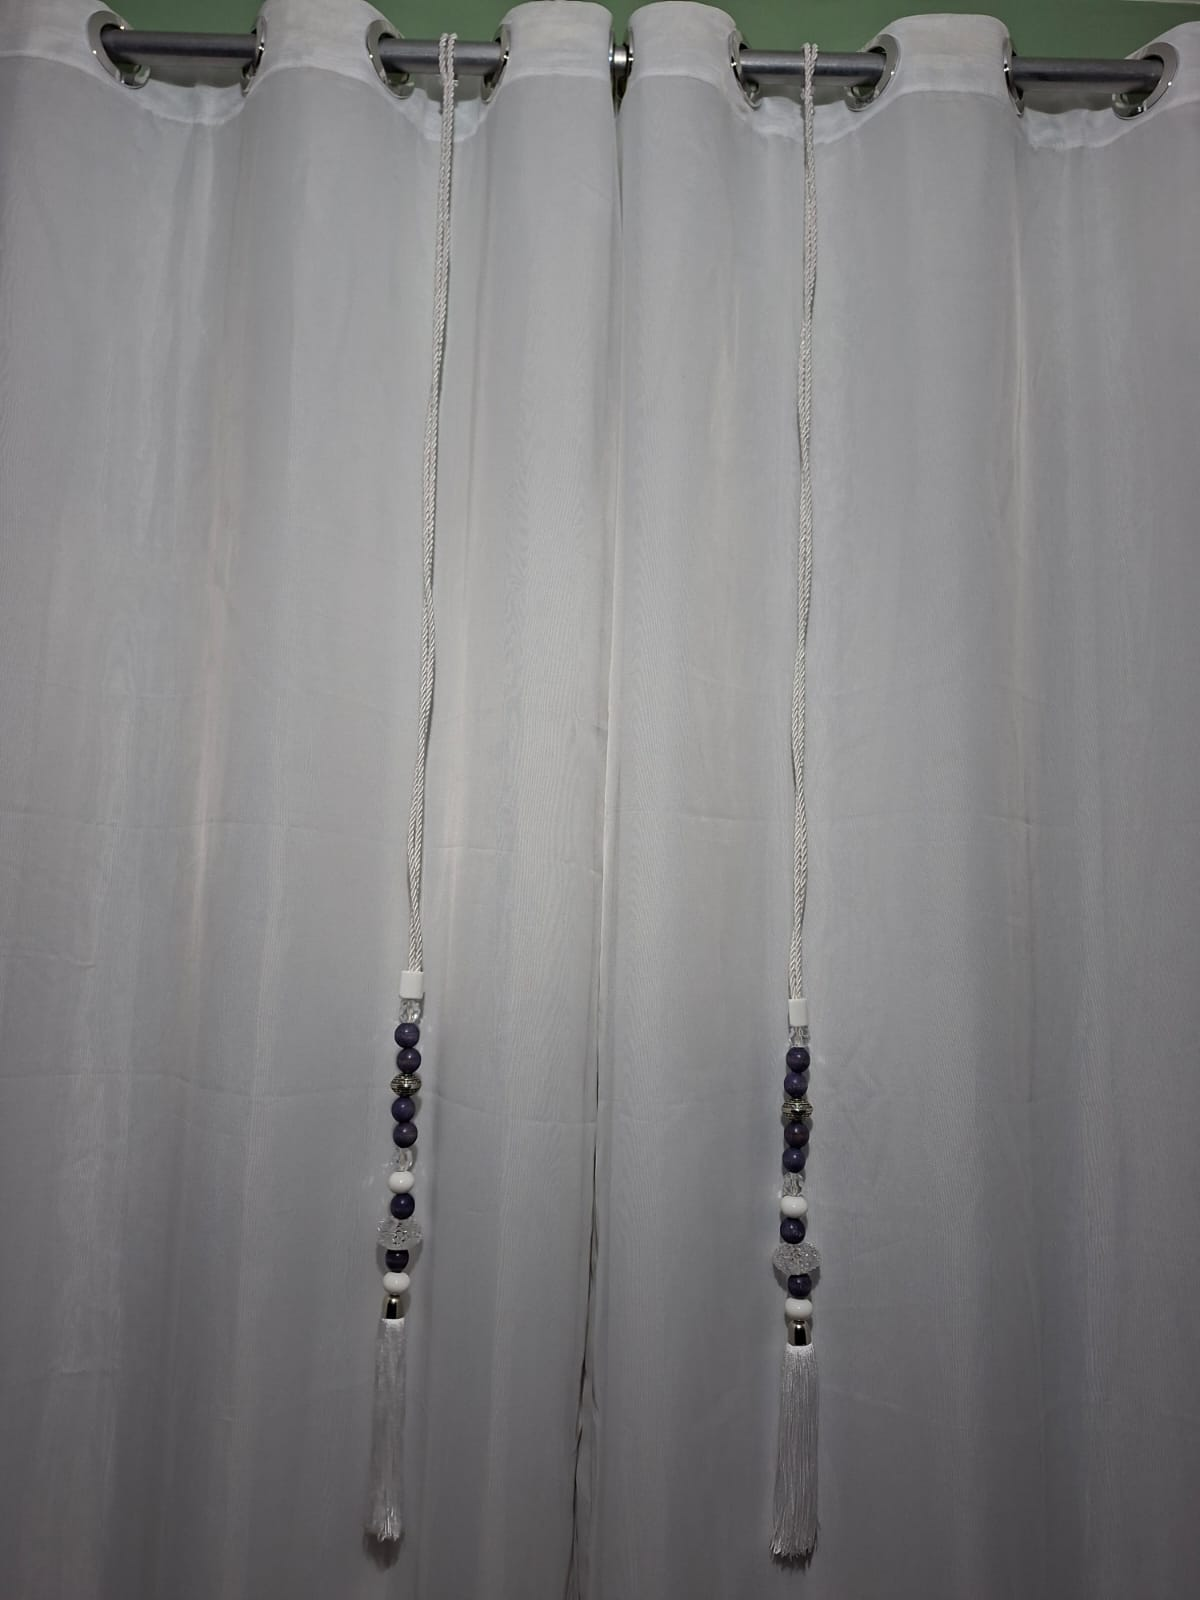
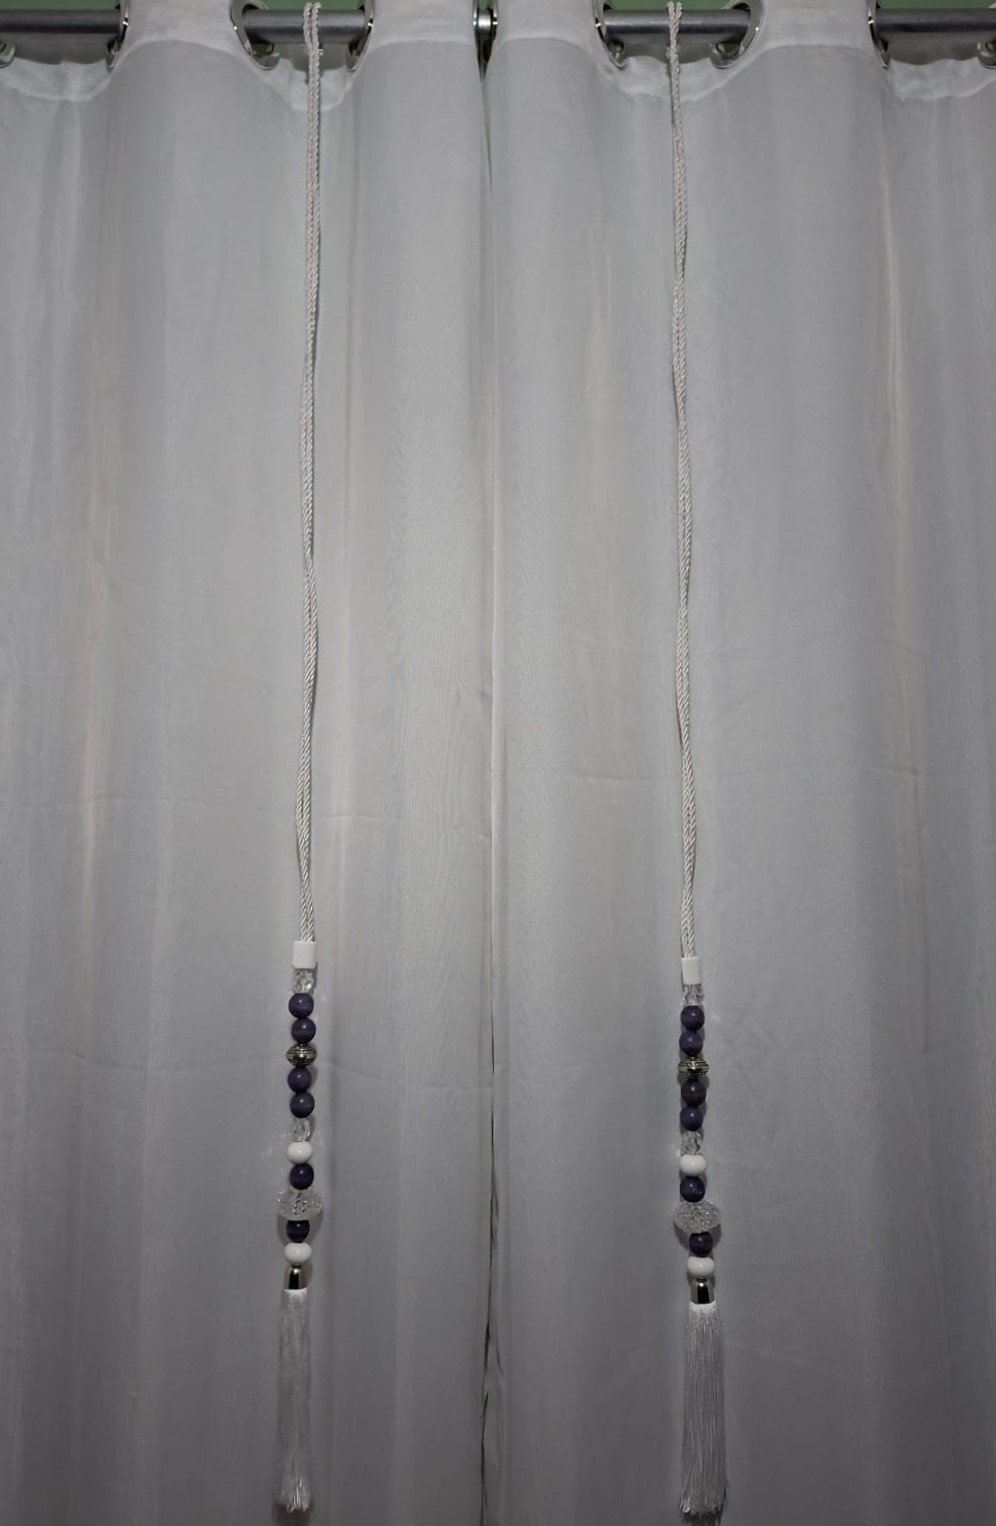
Produto novo e ajustes

diff --git a/AbracadeiraCortina001.html b/AbracadeiraCortina001.html
@@ -71,39 +71,33 @@
     <div id="informacaoProduto">
         <div class="imagemProduto">
             <div class="miniaturaImgProduto">
-                <img class="ativa" src="img/Img4-Produto-PC-001.jpeg" onclick="trocarImagem(this)">
-                <img src="img/Img2-Produto-PC-001.jpeg" onclick="trocarImagem(this)">
-                <img src="img/Img3-Produto-PC-001.jpeg" onclick="trocarImagem(this)">
-                <img src="img/img5-Produto-PC-001.jpeg" onclick="trocarImagem(this)">
+                <img class="ativa" src="img/Img2-Produto-AB-001.jpeg" onclick="trocarImagem(this)">
+                <img src="img/Img3-Produto-AB-001.jpeg" onclick="trocarImagem(this)">
+                <img src="img/Img4-Produto-AB-001.jpeg" onclick="trocarImagem(this)">
             </div>
             <div class="imagemPrincipalProduto">
-                <img src="img/Img4-Produto-PC-001.jpeg" id="imagemGrande">
+                <img src="img/Img2-Produto-AB-001.jpeg" id="imagemGrande">
             </div>
             <div class="modal" id="modal">
                 <img id="imagemModal">
             </div>
         </div>
         <div id="dadosProduto">
-            <div id="fraseCategoriaProduto">PINGENTE DE CORTINA</div>
-            <div id="nomeProduto">Pingente De Cortina Artesanal - Zambi Decora</div>
-            <div id="valorProduto">R$ 219,90</div>
+            <div id="fraseCategoriaProduto">ABRAÇADEIRA DE CORTINA</div>
+            <div id="nomeProduto">Par De Abraçadeiras De Cortina Artesanal - Zambi Decora</div>
+            <div id="valorProduto">R$ 119,90</div>
             <div id="descricaoProduto">
-                <p>A Zambi Decora se destaca por oferecer produtos que valorizam a arte artesanal e o design único,
-                    ideal para aqueles que apreciam o que há de melhor em decoração. Transforme seu espaço com a
-                    sofisticação e a leveza do Pingente de Cortina Artesanal. <br>
-                    <br>
-                    O par de pingentes nas medidas:  
-                    Altura = 1,40m
-                    Peso = 2,56kg
-                    <br>
-                    Cordão com pedra, madeira e resina</p>
+                <p>Abraçadeira de Cortina Artesanal – Elegância e Charme para sua Decoração <br><br>
+                Transforme o ambiente da sua casa com a delicadeza e a sofisticação da nossa Abraçadeira de Cortina Artesanal. Produzida manualmente com contas de madeira em diferentes formatos e tonalidades,
+                ela combina perfeitamente com estilos de decoração boho, rústico, e moderno.</p>
             </div>
             <div id="linhaDescricao"></div>
             <div id="mensagemProduto"><img src="img/flor-icone-produto.png" alt="">
                 <p id="mensagemBonita">Cada peça carrega uma essência única, feita com cuidado e alma artesanal.</p>
             </div>
             
-            <div id="botaoProduto"><a href="https://produto.mercadolivre.com.br/MLB-4750213425-pingente-de-cortina-artesanal-zambi-decora-_JM"><button>COMPRAR PRODUTO</button></a></div>
+            <div id="botaoProduto"><a href="https://produto.mercadolivre.com.br/MLB-6948827172-par-de-abracadeiras-de-cortina-artesanal-zambi-decora-_JM"><button>COMPRAR PRODUTO</button> </a></div>
+           
         </div>
     </div>
 
@@ -118,11 +112,11 @@
                 <div id="detalheLinha">◊⋙</div>
             </div>
             <div id="espacoDestaque"> <!--Onde colocar os card no destaque-->
-                <div class="cardProduto" onclick="abrirAB001()">
-                    <div class="imgCard"><img src="img/Img2-Produto-AB-001.jpeg" alt=""></div>
+                <div class="cardProduto" onclick="abrirPC001()">
+                    <div class="imgCard"><img src="img/Img4-Produto-PC-001.jpeg" alt=""></div>
                     <div class="textCard">
-                        <p>Par De Abraçadeiras De Cortina Artesanal - Zambi Decora</p>
-                        <b class="valorCard">R$ 119,90</b>
+                        <p>Pingente De Cortina Artesanal - Zambi Decora</p>
+                        <b class="valorCard">R$ 219,90</b>
                     </div>
                 </div>
 

diff --git a/css/stlilo.css b/css/stlilo.css
@@ -191,6 +191,10 @@ main {
     min-height: 290px;
     width: 100%;
     background-color: rgb(236, 234, 233);
+    display: flex;
+    align-items: center;
+    justify-content: center;
+    flex-direction: column;
 }
 
 #fraseCategoria {
@@ -219,7 +223,6 @@ main {
     height: auto;
     display: flex;
     justify-content: center;
-    flex-wrap: wrap;
 }
 
 .categoria1 {
@@ -605,13 +608,16 @@ footer {
 }
 /*Tablet*/
 @media (max-width: 768px) {
+    #espaçoCarro{
+        height: 15px;
+    }
     /*Responsividade da categoria*/
     #categoria {
         min-height: 100px;
     }
     .categoria1 {
         width: 110px;
-        height: 110px;
+        min-height: 110px;
     }
     .imgCategoria {
         width: 77px;
@@ -781,6 +787,16 @@ footer {
 }
 /*Celular*/
 @media (max-width: 480px) {
+    #carrossel{
+        aspect-ratio: 16/7.90;
+        
+    }
+    #carrossel img {
+        width: 100%;
+        height: 100%;
+        object-fit: cover;
+        object-position: left center;
+    }
     /*Responsividade da Links da Nav*/
     #links {
         height: 30px;
@@ -794,18 +810,26 @@ footer {
     #sobre button{
         font-size: 10px;
     }
+    #espaçoCarro{
+        height: 5px;
+    }
 
     /*Responsividade da categoria*/
     #categoria {
         min-height: 40px;
     }
+    #espacoCategoria{
+        max-width: 320px;
+    }
     .categoria1 {
-        width: 60px;
-        min-height: 50px;
+        width: 70px;
+        height: 45px;
     }
     .imgCategoria {
-        width: 49px;
-        height: 49px;
+        width: 56px;
+        height: 56px;
+        padding: 1px;
+        margin-bottom: 10px;
     }
     .espacamentoCategoria {
         height: 50px;
@@ -859,6 +883,13 @@ footer {
     }
 
     /*Responsividade do Footer*/
+    #mensagem{
+        aspect-ratio: 16/5.6;
+    }
+    #mensagem img{
+        object-position: left center;
+    }
+
     footer{
         height: 350px;
     }

diff --git a/index.html b/index.html
@@ -105,11 +105,11 @@
                         </div>
                     </div>
 
-                    <div class="cardProduto" onclick="abrirProduto()">
-                        <div class="imgCard"><img src="img/exemploimg.webp" alt=""></div>
+                    <div class="cardProduto" onclick="abrirAB001()">
+                        <div class="imgCard"><img src="img/Img2-Produto-AB-001.jpeg" alt=""></div>
                         <div class="textCard">
-                            <p>Exemplo de Produto</p>
-                            <b class="valorCard">R$ 100,00</b>
+                            <p>Par De Abraçadeiras De Cortina Artesanal - Zambi Decora</p>
+                            <b class="valorCard">R$ 119,90</b>
                         </div>
                     </div>
 

diff --git a/categoriaAbracadeira.html b/categoriaAbracadeira.html
@@ -79,6 +79,13 @@
             </div>
             <div id="areaCatalogo">
                 <div id="espacoCatalogo"> <!--Onde colocar os card no destaque-->
+                    <div class="cardProduto" onclick="abrirAB001()">
+                        <div class="imgCard"><img src="img/Img2-Produto-AB-001.jpeg" alt=""></div>
+                        <div class="textCard">
+                            <p>Par De Abraçadeiras De Cortina Artesanal - Zambi Decora</p>
+                            <b class="valorCard">R$ 119,90</b>
+                        </div>
+                    </div>
                 </div>
             </div>
         </div>

diff --git a/catalogo.html b/catalogo.html
@@ -83,6 +83,13 @@
                             <b class="valorCard">R$ 219,90</b>
                         </div>
                     </div>
+                    <div class="cardProduto" onclick="abrirAB001()">
+                        <div class="imgCard"><img src="img/Img2-Produto-AB-001.jpeg" alt=""></div>
+                        <div class="textCard">
+                            <p>Par De Abraçadeiras De Cortina Artesanal - Zambi Decora</p>
+                            <b class="valorCard">R$ 119,90</b>
+                        </div>
+                    </div>
                 </div>
             </div>
         </div>

diff --git a/js/linkar.js b/js/linkar.js
@@ -4,6 +4,9 @@ function abrirProduto(){
 function abrirPC001(){
     window.location.href = "PingenteCortina001.html"
 }
+function abrirAB001(){
+    window.location.href = "AbracadeiraCortina001.html"
+}
 
 function abrirCatalogo(){
     window.location.href = "catalogo.html"

diff --git a/css/stliloProduto.css b/css/stliloProduto.css
@@ -97,6 +97,8 @@ a{
     object-fit:cover;
     border-radius: 20px;
     cursor: pointer;
+    background-color:#ffffff;
+    border: 1px solid #bdbcbc;
 }
 
 .modal{
